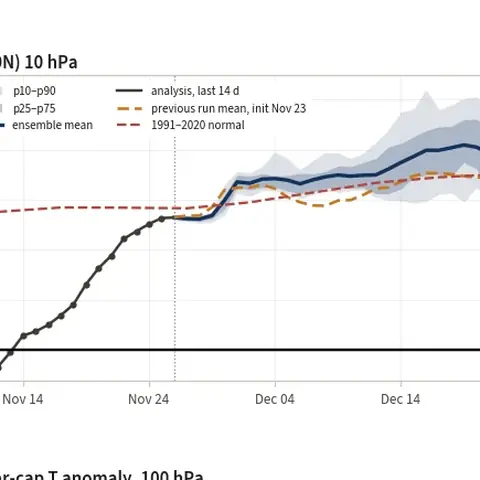
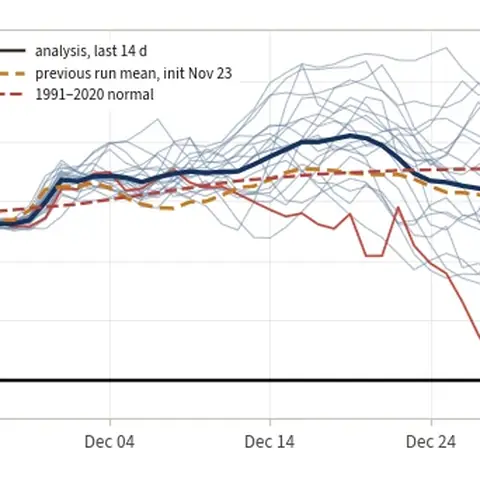
Polar-cap tropopause height on circulation.html (#dt/cap) with its guide; SSW card from the every-member GEPS figure
Claude-Session: https://claude.ai/code/session_0148RnpHcmsUZm49hy3FjU41

diff --git a/circulation.html b/circulation.html
@@ -518,10 +518,11 @@ window.STAGE = {
   vpot: {label: "200 hPa velocity potential", frame: function () { return "sst_anim.html?embed=1&manifest=wind200_manifest.json&region=wind200"; }, about: "about-vpot", cap: function () { return "χ200 anomaly and irrotational wind, ensemble mean: where the tropics are venting and where they are subsiding."; }},
   wcb: {label: "Warm conveyor belts", a: {label: "View", items: [["belts","Belts"],["pv","Outflow and the tropopause"]]}, frame: function (a) { return (function (r) { return "sst_anim.html?embed=1&manifest=wcb_ifs_manifest.json&region=" + r + "&regions=" + r + "&start=0"; })(a === "pv" ? "wcb_ifs_pv" : "wcb_ifs"); }, about: "about-wcb", cap: function (a) { return a === "pv" ? "How fast the outflow (irrotational) wind is changing the 300 hPa potential vorticity: orange lowers it, which builds the ridge. Mean of the 50 IFS-ENS members where they agree on the sign; black: the tropopause in the median member; green: members with a belt’s outflow. 12-hourly to day 7." : "Share of the 50 IFS-ENS members with a warm conveyor belt’s inflow, ascent and outflow over each point, 12-hourly to day 7; coloured only where well above the usual frequency for the date (contours)."; }},
   waf: {label: "Wave activity flux", frame: function () { return "sst_anim.html?embed=1&manifest=waf_manifest.json&region=waf"; }, about: "about-waf", cap: function () { return "Takaya–Nakamura flux at 250 hPa, mean of 50 members' fluxes on the low-passed analysis basic state; red = wave activity converging, hatched where members disagree."; }},
-  dt: {label: "Dynamic tropopause", a: {label: "Field", items: [["dt","θ on 2 PVU"],["dt_pv330","PV on 330 K"],["dt_pv350","PV on 350 K"]]},
-          b: {label: "Region", items: [["nh","Northern Hemisphere"],["npac","North Pacific"],["na","North America"],["atl","North Atlantic & Europe"],["asia","East Asia"],["sam","South America"],["tatl","Tropical Atlantic"]]},
-          frame: function (a, b) { return (function (r) { return "sst_anim.html?embed=1&manifest=dt_manifest.json&region=" + r + "&regions=" + r; })(a + (b && b !== "nh" ? "_" + b : "")); }, about: "about-dt",
-          cap: function (a) { return a === "dt" ? "Potential temperature on the 2-PVU surface, IFS control, 6-hourly to day 10: low θ is polar or stratospheric air reaching down." : "Ertel PV on the " + (a === "dt_pv330" ? "330" : "350") + " K isentrope, IFS control."; }},
+  dt: {label: "Dynamic tropopause", a: {label: "Field", items: [["dt","θ on 2 PVU"],["dt_pv330","PV on 330 K"],["dt_pv350","PV on 350 K"],["cap","Polar-cap height"]]},
+          b: function (a) { return a === "cap" ? null : {label: "Region", items: [["nh","Northern Hemisphere"],["npac","North Pacific"],["na","North America"],["atl","North Atlantic & Europe"],["asia","East Asia"],["sam","South America"],["tatl","Tropical Atlantic"]]}; },
+          frame: function (a, b) { return a === "cap" ? null : (function (r) { return "sst_anim.html?embed=1&manifest=dt_manifest.json&region=" + r + "&regions=" + r; })(a + (b && b !== "nh" ? "_" + b : "")); },
+          img: function () { return "assets/sst/dt_cap.webp?v=0bb3e16d827e"; }, fit: false, about: "about-dt",
+          cap: function (a) { return a === "cap" ? "Mean height of the dynamic tropopause over the polar cap (65–87°N): IFS control analyses, then the IFS control, AIFS single, GFS and GDPS runs to day 10, against the ERA5 normal for the date." : a === "dt" ? "Potential temperature on the 2-PVU surface, IFS control, 6-hourly to day 10: low θ is polar or stratospheric air reaching down." : "Ertel PV on the " + (a === "dt_pv330" ? "330" : "350") + " K isentrope, IFS control."; }},
   aam: {label: "Atmospheric angular momentum", a: {label: "View", items: [["series","Series and forecast"],["trend","Run-to-run trend"],["phase","Phase"],["zonal","By latitude (loop)"]]},
           frame: function (a) { return a === "zonal" ? "sst_anim.html?embed=1&manifest=aam_zonal_manifest.json&region=aam_zonal" : null; },
           img: function (a) { return "assets/sst/aam" + (a === "trend" ? "_trend" : a === "phase" ? "_phase" : "") + ".webp?v=4f3b3d431a66"; },

diff --git a/scripts/sst/pages/circulation.html b/scripts/sst/pages/circulation.html
@@ -432,10 +432,11 @@ window.STAGE = {
   vpot: {label: "200 hPa velocity potential", frame: function () { return "sst_anim.html?embed=1&manifest=wind200_manifest.json&region=wind200"; }, about: "about-vpot", cap: function () { return "χ200 anomaly and irrotational wind, ensemble mean: where the tropics are venting and where they are subsiding."; }},
   wcb: {label: "Warm conveyor belts", a: {label: "View", items: [["belts","Belts"],["pv","Outflow and the tropopause"]]}, frame: function (a) { return (function (r) { return "sst_anim.html?embed=1&manifest=wcb_ifs_manifest.json&region=" + r + "&regions=" + r + "&start=0"; })(a === "pv" ? "wcb_ifs_pv" : "wcb_ifs"); }, about: "about-wcb", cap: function (a) { return a === "pv" ? "How fast the outflow (irrotational) wind is changing the 300 hPa potential vorticity: orange lowers it, which builds the ridge. Mean of the 50 IFS-ENS members where they agree on the sign; black: the tropopause in the median member; green: members with a belt’s outflow. 12-hourly to day 7." : "Share of the 50 IFS-ENS members with a warm conveyor belt’s inflow, ascent and outflow over each point, 12-hourly to day 7; coloured only where well above the usual frequency for the date (contours)."; }},
   waf: {label: "Wave activity flux", frame: function () { return "sst_anim.html?embed=1&manifest=waf_manifest.json&region=waf"; }, about: "about-waf", cap: function () { return "Takaya–Nakamura flux at 250 hPa, mean of 50 members' fluxes on the low-passed analysis basic state; red = wave activity converging, hatched where members disagree."; }},
-  dt: {label: "Dynamic tropopause", a: {label: "Field", items: [["dt","θ on 2 PVU"],["dt_pv330","PV on 330 K"],["dt_pv350","PV on 350 K"]]},
-          b: {label: "Region", items: [["nh","Northern Hemisphere"],["npac","North Pacific"],["na","North America"],["atl","North Atlantic & Europe"],["asia","East Asia"],["sam","South America"],["tatl","Tropical Atlantic"]]},
-          frame: function (a, b) { return (function (r) { return "sst_anim.html?embed=1&manifest=dt_manifest.json&region=" + r + "&regions=" + r; })(a + (b && b !== "nh" ? "_" + b : "")); }, about: "about-dt",
-          cap: function (a) { return a === "dt" ? "Potential temperature on the 2-PVU surface, IFS control, 6-hourly to day 10: low θ is polar or stratospheric air reaching down." : "Ertel PV on the " + (a === "dt_pv330" ? "330" : "350") + " K isentrope, IFS control."; }},
+  dt: {label: "Dynamic tropopause", a: {label: "Field", items: [["dt","θ on 2 PVU"],["dt_pv330","PV on 330 K"],["dt_pv350","PV on 350 K"],["cap","Polar-cap height"]]},
+          b: function (a) { return a === "cap" ? null : {label: "Region", items: [["nh","Northern Hemisphere"],["npac","North Pacific"],["na","North America"],["atl","North Atlantic & Europe"],["asia","East Asia"],["sam","South America"],["tatl","Tropical Atlantic"]]}; },
+          frame: function (a, b) { return a === "cap" ? null : (function (r) { return "sst_anim.html?embed=1&manifest=dt_manifest.json&region=" + r + "&regions=" + r; })(a + (b && b !== "nh" ? "_" + b : "")); },
+          img: function () { return "assets/sst/dt_cap.webp?v=__CACHE__"; }, fit: false, about: "about-dt",
+          cap: function (a) { return a === "cap" ? "Mean height of the dynamic tropopause over the polar cap (65–87°N): IFS control analyses, then the IFS control, AIFS single, GFS and GDPS runs to day 10, against the ERA5 normal for the date." : a === "dt" ? "Potential temperature on the 2-PVU surface, IFS control, 6-hourly to day 10: low θ is polar or stratospheric air reaching down." : "Ertel PV on the " + (a === "dt_pv330" ? "330" : "350") + " K isentrope, IFS control."; }},
   /* season:tc */
   // One product for every tropical-cyclone view. storms / jet / phase mount the storm board (assets/tc/board.js; state
   // after #tc/<part>/: storm and view), shear mounts the shear dashboard (assets/tcshear/tcshear.js; state after

diff --git a/guides/circulation.html b/guides/circulation.html
@@ -290,6 +290,7 @@ frames to day&nbsp;10. White and colour are cold cloud tops (deep convection).</
 <p class="open"><a href="/circulation.html#dt">Open this figure</a></p>
 <p><a href="/topics/dynamic-tropopause.html">The explainer</a>: what the dynamic tropopause and potential vorticity measures, the equations and how to read the chart.</p>
 <p>The upper-level flow as PV thinkers read it. Ertel potential vorticity is computed from the temperature and wind of the <b>IFS control</b> (ECMWF&rsquo;s unperturbed 9&nbsp;km run, called HRES until May 2026) on nine levels from 700 to 100&nbsp;hPa &mdash; a single run, because PV does not survive ensemble averaging: a mean of fifty folds is a smear. The <b>dynamic tropopause</b> is the 2-PVU surface, found by searching upward from 700&nbsp;hPa; its potential temperature is shaded (low &theta;, blue, is stratospheric or polar air reaching down; high &theta;, red, is a tropical tropopause), its pressure contoured, and the wind on it drawn. Troughs, cut-off lows and ridges are the &theta; pattern itself; a tight gradient is the jet; a tongue of low &theta; wrapping up is a Rossby wave breaking. The other two loops give PV on the 330 and 350&nbsp;K isentropes with the 2-PVU line &mdash; 330&nbsp;K sits near the winter jet, 350&nbsp;K near the summer and subtropical one. 6-hourly to day 10, on a hemispheric view and six regional ones (North Pacific, North America, North Atlantic &amp; Europe, East Asia, South America and the tropical Atlantic; in the Southern Hemisphere the dynamic tropopause is the &minus;2-PVU surface and the isentropic maps show &minus;PV, and the tropical Atlantic view, which spans the equator, draws each hemisphere in its own sign). &theta; runs purple and blue (cold, low tropopause) through green and yellow to red (warm, high tropopause) in 5&nbsp;K steps; PV is yellow to orange below 2&nbsp;PVU (tropospheric air) and blue to purple above it (stratospheric air), with the 2-PVU line in black. Where PV is still below 2&nbsp;PVU at 100&nbsp;hPa (the deep tropics) the 2-PVU surface lies above the model levels, and the maps show the 100&nbsp;hPa values there.</p>
+<p><b>Polar-cap height.</b> The mean height of the dynamic tropopause over the polar cap, 65&ndash;87&deg;N (cos-weighted), and over its Atlantic side (90&deg;W&ndash;30&deg;E): a low cap is a cold, deep polar trough; a high one follows warm air pushed poleward, and the cap rises in the weeks after a sudden stratospheric warming. Four single runs, 12-hourly to day 10 from the same 00 or 12Z cycle (IFS control, AIFS single, GFS, GDPS), after the IFS control&rsquo;s analyses over the past weeks. So that every model and the normal compare cell for cell, the 2-PVU surface comes from geopotential alone on ten levels (700&ndash;50&nbsp;hPa) at 1.5&deg;: temperature from the hydrostatic relation, the geostrophic wind, PV from them, and the first 2-PVU crossing upward from 700&nbsp;hPa. The normal is ERA5 over the latest 30 winters, computed the same way, as percentiles (2.5, 10, 50, 90 and 97.5) of the days within a week of the date. Over January&ndash;June 2026 the IFS control&rsquo;s analyses sit within about 10&nbsp;m of ERA5 on the same days (correlation 1.00). Sudden-warming onsets the outlook page reports are marked.</p>
 </section>
 
 <section id="pacjet" data-fig="pacjet/maps">

diff --git a/scripts/site/guides/circulation.html b/scripts/site/guides/circulation.html
@@ -25,6 +25,7 @@ frames to day&nbsp;10. White and colour are cold cloud tops (deep convection).</
 <h3>Dynamic tropopause</h3>
 <p><a href="/topics/dynamic-tropopause.html">The explainer</a>: what the dynamic tropopause and potential vorticity measures, the equations and how to read the chart.</p>
 <p>The upper-level flow as PV thinkers read it. Ertel potential vorticity is computed from the temperature and wind of the <b>IFS control</b> (ECMWF&rsquo;s unperturbed 9&nbsp;km run, called HRES until May 2026) on nine levels from 700 to 100&nbsp;hPa &mdash; a single run, because PV does not survive ensemble averaging: a mean of fifty folds is a smear. The <b>dynamic tropopause</b> is the 2-PVU surface, found by searching upward from 700&nbsp;hPa; its potential temperature is shaded (low &theta;, blue, is stratospheric or polar air reaching down; high &theta;, red, is a tropical tropopause), its pressure contoured, and the wind on it drawn. Troughs, cut-off lows and ridges are the &theta; pattern itself; a tight gradient is the jet; a tongue of low &theta; wrapping up is a Rossby wave breaking. The other two loops give PV on the 330 and 350&nbsp;K isentropes with the 2-PVU line &mdash; 330&nbsp;K sits near the winter jet, 350&nbsp;K near the summer and subtropical one. 6-hourly to day 10, on a hemispheric view and six regional ones (North Pacific, North America, North Atlantic &amp; Europe, East Asia, South America and the tropical Atlantic; in the Southern Hemisphere the dynamic tropopause is the &minus;2-PVU surface and the isentropic maps show &minus;PV, and the tropical Atlantic view, which spans the equator, draws each hemisphere in its own sign). &theta; runs purple and blue (cold, low tropopause) through green and yellow to red (warm, high tropopause) in 5&nbsp;K steps; PV is yellow to orange below 2&nbsp;PVU (tropospheric air) and blue to purple above it (stratospheric air), with the 2-PVU line in black. Where PV is still below 2&nbsp;PVU at 100&nbsp;hPa (the deep tropics) the 2-PVU surface lies above the model levels, and the maps show the 100&nbsp;hPa values there.</p>
+<p><b>Polar-cap height.</b> The mean height of the dynamic tropopause over the polar cap, 65&ndash;87&deg;N (cos-weighted), and over its Atlantic side (90&deg;W&ndash;30&deg;E): a low cap is a cold, deep polar trough; a high one follows warm air pushed poleward, and the cap rises in the weeks after a sudden stratospheric warming. Four single runs, 12-hourly to day 10 from the same 00 or 12Z cycle (IFS control, AIFS single, GFS, GDPS), after the IFS control&rsquo;s analyses over the past weeks. So that every model and the normal compare cell for cell, the 2-PVU surface comes from geopotential alone on ten levels (700&ndash;50&nbsp;hPa) at 1.5&deg;: temperature from the hydrostatic relation, the geostrophic wind, PV from them, and the first 2-PVU crossing upward from 700&nbsp;hPa. The normal is ERA5 over the latest 30 winters, computed the same way, as percentiles (2.5, 10, 50, 90 and 97.5) of the days within a week of the date. Over January&ndash;June 2026 the IFS control&rsquo;s analyses sit within about 10&nbsp;m of ERA5 on the same days (correlation 1.00). Sudden-warming onsets the outlook page reports are marked.</p>
 </section>
 
 <section id="pacjet" data-fig="pacjet/maps">
